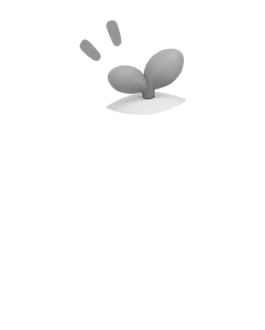
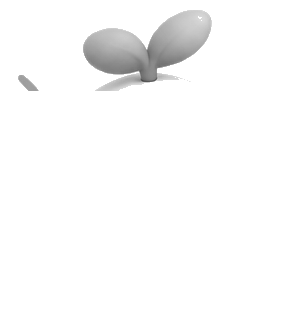
펫 커스텀을 새 참고 이미지(스테이지별 색상 항목 명시)로 전면 재구축
사용자가 알/유년기/청소년기/성년기 4장에 스테이지별 "변경 가능 색상" 라벨까지 직접
적어서 준 참고 이미지(design-assets/pet-mascot-reference-v2.png)로 마스코트를 전부
다시 뽑았다. 이전 이미지와 달리 청소년기는 가계부 대신 "가방"(들고 있는 나비 아이콘
책 + 옆구리 나비 파우치, 둘 다 가방색 하나로 묶임)을 갖고, 성년기에만 가계부(₩ 아이콘
책)와 가방이 둘 다 있다 — 사용자가 붙여준 상세 스펙 문서와 실제 그림을 대조해 확인.

핵심 변경:
- lib/pets.ts: colorPartsForStage() 추가 — 성장 단계별로 실제 존재하는 부위만
  반환(알=몸+잎, 유년기=+눈, 청소년기=+가방, 성년기=+가계부). PetCustomize가 이 값으로
  스와치를 필터링해서, 없는 부위의 커스텀 옵션은 화면에 안 보인다.
- components/screens/PetCustomize.tsx: 스와치 목록을 colorPartsForStage(previewStage)로
  필터링.
- components/PetMascot.tsx: STAGE_ASSET을 새 이미지 크기·부위 구성으로 교체
  (stage-3: bag만, stage-4: ledger+bag 둘 다). 시무룩(stage-3-sulking)은 새 참고
  이미지에 없어서 구버전 이미지에서 뽑은 걸 그대로 유지.
- design-assets/extract-pet-layers-v2.js(신규): 사각형 bbox 대신 실제 색 경계를 추적하고
  안의 흰 아이콘 구멍만 블러+재이진화로 메우는 방식(형태학적 closing 근사)으로 가계부·
  가방을 뽑는다 — 사각형을 쓰면 모서리가 실제 둥근 테두리 밖으로 튀어나와 몸통에 색
  잔상이 생기는 문제(사용자 신고: "규격이 안 맞음")가 있어 폐기.
- design-assets/extract-pet-layers.js: 이제 시무룩 추출에만 쓰는 용도로 주석 정리(나머지
  4단계는 v2로 완전히 대체됨).

Changed region(s): [[0.2717, 0.0308, 0.7245, 0.3692], [0.0604, 0.2154, 0.1208, 0.2769]]

diff --git a/design-assets/extract-pet-layers-v2.js b/design-assets/extract-pet-layers-v2.js
@@ -1,0 +1,235 @@
+// 2026-09-15 — 사용자가 새로 준, 스테이지별 커스텀 색상 항목까지 명시된 참고 이미지
+// (design-assets/pet-mascot-reference-v2.png)에서 부위별 레이어를 뽑는 스크립트.
+// v1(extract-pet-layers.js)과 달리 처음부터 "타원 눈대중" 대신 색 임계값(채도/밝기/색조)으로 각
+// 부위의 실제 픽셀 영역을 찾아 마스크를 만든다 — 이전에 에러가 반복된 이유(타원 좌표를 눈대중으로
+// 잡아서 몸통까지 침범하거나 잘려나감)를 원천적으로 피하려는 것.
+//
+// 이 참고 이미지는 4단계만 있고(알/유년기/청소년기/성년기) "시무룩" 그림은 없다 — 시무룩은 기존
+// public/pets/stage-3-sulking-*.png(구 참고 이미지에서 추출)를 그대로 계속 쓴다.
+//
+// 부위 구성(이미지 자체에 적힌 "변경 가능 색상" 라벨 기준, 사용자 확인):
+//   알: 몸, 잎사귀
+//   유년기: 몸, 눈, 잎사귀
+//   청소년기: 몸, 눈, 잎사귀, 가방(=들고 있는 나비 아이콘 책 + 옆구리 나비 아이콘 파우치, 둘 다 같은 색)
+//   성년기: 몸, 눈, 잎사귀, 가계부(=₩ 아이콘 책), 가방(=옆구리 나비 아이콘 파우치)
+const sharp = require("sharp");
+const path = require("path");
+
+const REF = path.join(__dirname, "pet-mascot-reference-v2.png");
+const DIR = path.join(__dirname, "..", "public", "pets");
+
+function rect(x, y, w, h, rx = 0) {
+  return `<rect x="${x}" y="${y}" width="${w}" height="${h}" rx="${rx}" fill="white"/>`;
+}
+function maskSvg(width, height, shapes) {
+  return Buffer.from(`<svg xmlns="http://www.w3.org/2000/svg" width="${width}" height="${height}">${shapes.join("")}</svg>`);
+}
+
+const CROPS = {
+  "stage-1-egg": { left: 40, top: 320, width: 300, height: 325 },
+  "stage-2": { left: 340, top: 258, width: 360, height: 387 },
+  "stage-3": { left: 700, top: 205, width: 344, height: 440 },
+  "stage-4": { left: 1044, top: 122, width: 456, height: 523 },
+};
+
+const STAGES = {
+  "stage-1-egg": {
+    leafSat: { y1: 90 }, // 줄기-몸통 경계 아래로(픽셀 스캔 확인) 안 넘어가게
+    eyeLumaBox: { boxes: [{ x0: 63, x1: 229, y0: 178, y1: 218 }], threshold: 175 }, // 감은 눈(얇은 곡선)
+    // 오른쪽 볼은 핑크 임계값으로 잡히지만 왼쪽은 채도가 낮아 안 잡혀서 대칭으로 보정.
+    pinkBoxes: [{ x0: 210, x1: 270, y0: 185, y1: 225 }],
+    fixedFallback: [rect(55, 190, 55, 30, 15)], // 왼쪽 볼 — 오른쪽과 대칭 위치, 색 임계값으로 못 찾아서 도형으로.
+  },
+  "stage-2": {
+    leafSat: { y1: 106 },
+    eyeBoxes: [{ x0: 120, x1: 182, y0: 175, y1: 246 }, { x0: 184, x1: 281, y0: 158, y1: 236 }],
+    pupilDark: true,
+    eyeWhite: true,
+    cheekMouthBox: [{ x0: 0, x1: 360, y0: 195, y1: 280 }],
+  },
+  "stage-3": {
+    leafSat: { y1: 101 },
+    eyeBoxes: [{ x0: 107, x1: 176, y0: 171, y1: 264 }, { x0: 167, x1: 267, y0: 151, y1: 264 }],
+    pupilDark: true,
+    eyeWhite: true,
+    cheekMouthBox: [{ x0: 0, x1: 344, y0: 190, y1: 280 }],
+    // 청소년기 = "가방" 하나로 통합(들고 있는 나비 책 + 옆구리 나비 파우치 둘 다).
+    heldRegions: { bag: { x0: 0, x1: 300, y0: 228, y1: 420 } },
+  },
+  "stage-4": {
+    leafSat: { y1: 121 },
+    eyeBoxes: [{ x0: 157, x1: 228, y0: 193, y1: 275 }, { x0: 232, x1: 344, y0: 178, y1: 294 }],
+    pupilDark: true,
+    eyeWhite: true,
+    cheekMouthBox: [{ x0: 0, x1: 456, y0: 220, y1: 315 }],
+    // 처음엔 사각형(rect)으로 bbox를 잡았는데, 사각형 모서리가 실제 책/파우치의 둥근 테두리
+    // 밖으로 튀어나와 몸통·팔에 색이 번진 사각형 잔상으로 보였다(사용자 신고: "규격이 안 맞음").
+    // 사각형 대신 실제 색 경계를 그대로 추적하고, 안의 흰 아이콘(₩·나비) 구멍만 블러+재이진화로
+    // 메우는 방식(형태학적 closing 근사)으로 바꿔 진짜 모양 그대로 잘라낸다.
+    heldRegions: {
+      ledger: { x0: 190, x1: 380, y0: 228, y1: 418 }, // 들고 있는 책(₩ 아이콘) = "가계부"
+      bag: { x0: 0, x1: 190, y0: 260, y1: 420 }, // 옆구리 파우치(나비 아이콘) = "가방"
+    },
+  },
+};
+
+// 가계부·가방처럼 색은 뚜렷하지만 안에 흰 아이콘(₩·나비) 구멍이 있는 부위용 — 지정한 범위 안에서
+// 채도(b-r) 임계값으로 실제 색 경계를 추적한 뒤, 블러+재이진화로 아이콘 크기의 구멍만 메운다
+// (사각형 bbox를 쓰면 모서리가 실제 둥근 테두리 밖으로 튀어나와 "규격이 안 맞는" 잔상이 생긴다).
+async function buildClosedRegionMask(srcBuf, box) {
+  const { data, info } = await sharp(srcBuf).raw().toBuffer({ resolveWithObject: true });
+  const { width, height, channels } = info;
+  const raw = Buffer.alloc(width * height * 4);
+  for (let y = box.y0; y < box.y1; y++) {
+    for (let x = box.x0; x < box.x1; x++) {
+      const i = (y * width + x) * channels;
+      const r = data[i], g = data[i + 1], b = data[i + 2], a = data[i + 3];
+      if (a > 100 && b - r > 65) {
+        const o = (y * width + x) * 4;
+        raw[o] = 255; raw[o + 1] = 255; raw[o + 2] = 255; raw[o + 3] = 255;
+      }
+    }
+  }
+  const blurred = await sharp(raw, { raw: { width, height, channels: 4 } }).blur(9).raw().toBuffer({ resolveWithObject: true });
+  const closed = Buffer.alloc(width * height * 4);
+  for (let i = 0; i < blurred.data.length; i += 4) {
+    if (blurred.data[i + 3] > 45) {
+      closed[i] = 255; closed[i + 1] = 255; closed[i + 2] = 255; closed[i + 3] = 255;
+    }
+  }
+  return sharp(closed, { raw: { width, height, channels: 4 } }).png().toBuffer();
+}
+
+const DARK_LUMA_THRESHOLD = 140;
+const WHITE_MIN_CHANNEL = 200;
+const WHITE_MAX_SPREAD = 22;
+// b-r > 이 값이면 잎사귀/줄기(채도 높은 진보라)로 인정. 처음엔 55였는데, 하이라이트가 강하게
+// 들어간 잎사귀 "끝부분"은 채도가 40 정도까지 떨어져서 55 기준으론 몸통으로 잘못 분류돼 색이 안
+// 바뀌는(파란 티) 문제가 있었다(실측: 끝부분 b-r≈40, 몸통 solid 픽셀은 b-r≤22) — 30으로 낮춤.
+const LEAF_SAT_THRESHOLD = 30;
+
+async function buildMaskFromPredicate(srcBuf, predicate) {
+  const { data, info } = await sharp(srcBuf).raw().toBuffer({ resolveWithObject: true });
+  const { width, height, channels } = info;
+  const out = Buffer.alloc(width * height * 4);
+  for (let y = 0; y < height; y++) {
+    for (let x = 0; x < width; x++) {
+      const i = (y * width + x) * channels;
+      const r = data[i], g = data[i + 1], b = data[i + 2], a = data[i + 3];
+      if (predicate(r, g, b, a, x, y)) {
+        const o = (y * width + x) * 4;
+        out[o] = 255; out[o + 1] = 255; out[o + 2] = 255; out[o + 3] = 255;
+      }
+    }
+  }
+  return sharp(out, { raw: { width, height, channels: 4 } }).png().toBuffer();
+}
+
+function inBoxes(boxes, x, y) {
+  return boxes.some((b) => x >= b.x0 && x <= b.x1 && y >= b.y0 && y <= b.y1);
+}
+
+async function unionAlpha(pngBuffers) {
+  const bufs = await Promise.all(pngBuffers.map((s) => sharp(s).ensureAlpha().raw().toBuffer({ resolveWithObject: true })));
+  const { width, height, channels } = bufs[0].info;
+  const out = Buffer.alloc(width * height * channels);
+  for (const { data } of bufs) {
+    for (let i = channels - 1; i < data.length; i += channels) {
+      if (data[i] > out[i]) out[i] = data[i];
+    }
+  }
+  return sharp(out, { raw: { width, height, channels } }).png().toBuffer();
+}
+
+async function run() {
+  for (const [stage, cfg] of Object.entries(STAGES)) {
+    const crop = CROPS[stage];
+    const srcBuf = await sharp(REF).extract(crop).png().toBuffer();
+    const w = crop.width, h = crop.height;
+    const grayBuf = await sharp(srcBuf).greyscale().png().toBuffer();
+    const holeBuffers = [];
+
+    // 잎사귀 — 채도(b-r) 임계값, y1 아래로는 절대 안 넘어가게(몸통 침범 버그 재발 방지)
+    if (cfg.leafSat) {
+      const leafMask = await buildMaskFromPredicate(srcBuf, (r, g, b, a, x, y) => {
+        if (y > cfg.leafSat.y1 || a <= 100) return false;
+        return b - r > LEAF_SAT_THRESHOLD;
+      });
+      holeBuffers.push(leafMask);
+      await sharp(grayBuf).composite([{ input: leafMask, blend: "dest-in" }]).png().toFile(path.join(DIR, `${stage}-leaf-gray.png`));
+    }
+
+    // 가계부/가방 — 실제 색 경계 추적 + 아이콘 구멍 closing(buildClosedRegionMask). 사각형 bbox를
+    // 쓰면 모서리가 실제 둥근 테두리 밖으로 튀어나와 몸통에 색 잔상이 생긴다(2026-09-15 사용자
+    // 신고로 rect 방식 폐기).
+    if (cfg.heldRegions) {
+      for (const [part, box] of Object.entries(cfg.heldRegions)) {
+        const mask = await buildClosedRegionMask(srcBuf, box);
+        holeBuffers.push(mask);
+        await sharp(grayBuf).composite([{ input: mask, blend: "dest-in" }]).png().toFile(path.join(DIR, `${stage}-${part}-gray.png`));
+      }
+    }
+
+    // 눈동자
+    if (cfg.pupilDark) {
+      const pupilMask = await buildMaskFromPredicate(srcBuf, (r, g, b, a, x, y) => {
+        if (!inBoxes(cfg.eyeBoxes, x, y) || a <= 40) return false;
+        return 0.3 * r + 0.59 * g + 0.11 * b < DARK_LUMA_THRESHOLD;
+      });
+      holeBuffers.push(pupilMask);
+      await sharp(grayBuf).composite([{ input: pupilMask, blend: "dest-in" }]).png().toFile(path.join(DIR, `${stage}-pupils-gray.png`));
+    }
+    if (cfg.eyeLumaBox) {
+      const { boxes, threshold } = cfg.eyeLumaBox;
+      const eyeMask = await buildMaskFromPredicate(srcBuf, (r, g, b, a, x, y) => {
+        if (!inBoxes(boxes, x, y) || a <= 40) return false;
+        return 0.3 * r + 0.59 * g + 0.11 * b < threshold;
+      });
+      holeBuffers.push(eyeMask);
+      await sharp(grayBuf).composite([{ input: eyeMask, blend: "dest-in" }]).png().toFile(path.join(DIR, `${stage}-pupils-gray.png`));
+    }
+
+    // 고정 요소(흰자·볼·입, 원색 그대로)
+    const fixedParts = [];
+    if (cfg.eyeWhite) {
+      const whiteMask = await buildMaskFromPredicate(srcBuf, (r, g, b, a, x, y) => {
+        if (!inBoxes(cfg.eyeBoxes, x, y) || a <= 40) return false;
+        const minC = Math.min(r, g, b), maxC = Math.max(r, g, b);
+        return minC > WHITE_MIN_CHANNEL && maxC - minC < WHITE_MAX_SPREAD;
+      });
+      fixedParts.push(whiteMask);
+    }
+    if (cfg.cheekMouthBox) {
+      const pinkMask = await buildMaskFromPredicate(srcBuf, (r, g, b, a, x, y) => {
+        if (!inBoxes(cfg.cheekMouthBox, x, y) || a <= 40) return false;
+        return (r + b) / 2 - g > 30 && Math.abs(r - b) < 15;
+      });
+      fixedParts.push(pinkMask);
+    }
+    if (cfg.pinkBoxes) {
+      const pinkMask = await buildMaskFromPredicate(srcBuf, (r, g, b, a, x, y) => {
+        if (!inBoxes(cfg.pinkBoxes, x, y) || a <= 40) return false;
+        return (r + b) / 2 - g > 15;
+      });
+      fixedParts.push(pinkMask);
+    }
+    if (cfg.fixedFallback) fixedParts.push(maskSvg(w, h, cfg.fixedFallback));
+    if (fixedParts.length > 0) {
+      const fixedMask = await unionAlpha(fixedParts);
+      holeBuffers.push(fixedMask);
+      await sharp(srcBuf).composite([{ input: fixedMask, blend: "dest-in" }]).png().toFile(path.join(DIR, `${stage}-fixed.png`));
+    }
+
+    await sharp(grayBuf)
+      .composite(holeBuffers.map((buf) => ({ input: buf, blend: "dest-out" })))
+      .png()
+      .toFile(path.join(DIR, `${stage}-body-gray.png`));
+
+    console.log("done", stage);
+  }
+}
+
+run().catch((e) => {
+  console.error(e);
+  process.exit(1);
+});

diff --git a/components/PetMascot.tsx b/components/PetMascot.tsx
@@ -1,28 +1,34 @@
 "use client";
-// components/PetMascot.tsx — 저금통 펫 마스코트. 2026-09-15 사용자가 실제로 준 참고 이미지
-// ("Stage 0-Egg/1/2/3/2-Sulking" 5장, design-assets/pet-mascot-reference.png)를 실제로 잘라서
-// 쓴다 — SVG로 다시 그리는 방식은 "이 캐릭터가 아니다"라며 거부당해 폐기했다(2026-09-15).
+// components/PetMascot.tsx — 저금통 펫 마스코트. 2026-09-15 사용자가 스테이지별 커스텀 색상
+// 항목까지 명시한 참고 이미지(알/유년기/청소년기/성년기 4장, design-assets/pet-mascot-reference-v2
+// .png)를 실제로 잘라서 쓴다 — SVG로 다시 그리는 방식은 "이 캐릭터가 아니다"라며 거부당해 폐기했다.
 //
-// 부위별 색상 커스텀(몸/가계부/가방/눈/잎사귀)은 그대로 유지해야 해서, 이미지를 통째로 쓰는 대신
-// design-assets/extract-pet-layers.js로 부위별 레이어(그레이스케일 + 실루엣 알파)를 미리 뽑아
-// public/pets/에 저장해뒀다. 화면에서는 각 레이어를:
+// 부위별 색상 커스텀은 그대로 유지해야 해서, 이미지를 통째로 쓰는 대신 design-assets/
+// extract-pet-layers-v2.js로 부위별 레이어(그레이스케일 + 실루엣 알파)를 미리 뽑아 public/pets/에
+// 저장해뒀다. 화면에서는 각 레이어를:
 //   1) 그레이스케일 이미지를 그대로 그리고
 //   2) 그 위에 같은 실루엣을 CSS mask-image로 쓰는 단색 오버레이를, mix-blend-mode:color로 얹는다
 // 이렇게 하면 원본의 음영·하이라이트(명도)는 유지한 채 색상(색조)만 사용자가 고른 색으로 바뀐다
-// ("듀오톤 컬러라이즈" 기법). 흰자·볼터치·입·코인처럼 색을 바꾸면 안 되는 요소는 "fixed" 레이어로
-// 따로 떼어 원색 그대로 그 위에 얹는다.
+// ("듀오톤 컬러라이즈" 기법). 흰자·볼터치·입처럼 색을 바꾸면 안 되는 요소는 "fixed" 레이어로 따로
+// 떼어 원색 그대로 그 위에 얹는다.
 //
-// [주의] 마스크 좌표는 참고 이미지를 육안으로 보고 잡은 근사치라(design-assets/extract-pet-layers.js
-// 참고) 부위 경계에 약간의 오차가 있을 수 있다 — 완벽한 픽셀 단위 분리보다 "실제로 색이 바뀌는 것"을
-// 우선한 실용적 타협.
+// 부위 구성(참고 이미지 자체에 적힌 "변경 가능 색상" 라벨 기준, 2026-09-15 사용자 확인) — 성장
+// 단계마다 존재하는 부위가 다르다:
+//   1=알: 몸+잎사귀만(눈·가계부·가방 없음)
+//   2=유년기: 몸+눈+잎사귀(가계부·가방 없음)
+//   3=청소년기: 몸+눈+잎사귀+가방(들고 있는 나비 책 + 옆구리 나비 파우치, 둘 다 가방 색 하나로 묶임 — 가계부 없음)
+//   4=성년기: 몸+눈+잎사귀+가계부(₩ 책)+가방(옆구리 파우치) 전부
+// lib/pets.ts의 colorPartsForStage()가 이 표를 그대로 코드로 옮긴 것 — 화면(PetCustomize)에서
+// 스와치를 보여줄지 말지 그 함수로 판단한다. 시무룩(stage-3-sulking)은 구버전 참고 이미지(5스테이지,
+// design-assets/pet-mascot-reference.png)에서 뽑은 걸 그대로 쓴다 — 새 참고 이미지엔 시무룩이 없다.
 import type { CSSProperties } from "react";
 import type { Pet } from "@/lib/mock";
 import { MAX_STAGE_INDEX } from "@/lib/pets";
 
 const STAGE_SIZE = [56, 70, 84, 98]; // stage_index 1~4(1=알)에 대응, 참고 이미지의 "성장 미리보기"처럼 커짐
 
-// 레이어 원본 픽셀 크기(design-assets/extract-pet-layers.js의 크롭 크기와 동일해야 함) — 스테이지마다
-// 이미지 비율이 달라서, 컨테이너 안에서 object-fit: contain으로 비율을 유지한 채 바닥에 맞춰 앉힌다.
+// 레이어 원본 픽셀 크기(design-assets/extract-pet-layers-v2.js의 크롭 크기와 동일해야 함) — 스테이지
+// 마다 이미지 비율이 달라서, 컨테이너 안에서 비율을 유지한 채 바닥에 맞춰 앉힌다.
 type PetAssetPart = "leaf" | "ledger" | "bag";
 interface PetAsset {
   key: string;
@@ -31,10 +37,10 @@ interface PetAsset {
   parts: readonly PetAssetPart[];
 }
 const STAGE_ASSET: Record<1 | 2 | 3 | 4, PetAsset> = {
-  1: { key: "stage-1-egg", w: 265, h: 330, parts: ["leaf"] },
-  2: { key: "stage-2", w: 278, h: 345, parts: ["leaf"] },
-  3: { key: "stage-3", w: 286, h: 425, parts: ["leaf", "ledger"] },
-  4: { key: "stage-4", w: 361, h: 515, parts: ["leaf", "bag"] },
+  1: { key: "stage-1-egg", w: 300, h: 325, parts: ["leaf"] },
+  2: { key: "stage-2", w: 360, h: 387, parts: ["leaf"] },
+  3: { key: "stage-3", w: 344, h: 440, parts: ["leaf", "bag"] },
+  4: { key: "stage-4", w: 456, h: 523, parts: ["leaf", "ledger", "bag"] },
 };
 const SULKING_ASSET: PetAsset = { key: "stage-3-sulking", w: 346, h: 430, parts: ["leaf"] };
 

diff --git a/design-assets/extract-pet-layers.js b/design-assets/extract-pet-layers.js
@@ -1,17 +1,17 @@
-// 참고 이미지(사용자 제공, design-assets/pet-mascot-reference.png)를 부위별 레이어로 분리하는
-// 스크립트(2026-09-15, 6차 수정) — public/pets/*-gray.png·*-fixed.png가 이 스크립트의 결과물이다.
-// 재실행: `node design-assets/extract-pet-layers.js` (프로젝트 루트에서, sharp가 있어야 함).
+// 참고 이미지(사용자 제공, design-assets/pet-mascot-reference.png — 5스테이지 구버전)를 부위별
+// 레이어로 분리하는 스크립트. 2026-09-15에 사용자가 스테이지별 커스텀 항목까지 명시된 더 정확한
+// 참고 이미지(design-assets/pet-mascot-reference-v2.png)를 새로 줘서, 알/유년기/청소년기/성년기
+// 4단계는 extract-pet-layers-v2.js로 완전히 대체됐다(public/pets/v2-*.png).
 //
-// 이력(요약): 1차 도형 마스크 → 2차 알 단계 눈·잎사귀 보정 → 3차 dest-in/out이 알파 채널로만
-// 동작한다는 걸 몰라서 1채널 마스크가 무시되던 버그 수정 + 흰자 타원이 커서 몸 색 바꿔도 눈 주위에
-// 고리가 남던 문제 수정 → 4차 "눈동자(pupils)" 타원도 흰자와 똑같은 문제(실제보다 큰 타원 → 기본
-// 눈 색이 큰 범위에 칠해져 회색 동그라미로 튐)를 색 임계값(eyeBoxes) 방식으로 수정 → 5차(이번):
-// stage-2(유년기)에서 왼쪽 눈 "아래쪽"이 안 바뀌는 문제·새싹 색이 잘 안 바뀌는 문제가 남아있었다
-// (사용자 신고, 2026-09-15) — eyeBoxes가 실제 눈동자 하단을 살짝 잘라내고 있었고(픽셀 스캔으로
-// 확인: 실제 눈동자가 상자 경계 y1 바로 너머까지 이어짐), leaf 타원도 여전히 작았다. 전 스테이지의
-// eyeBoxes·leaf 타원을 픽셀 단위 다크/알파 스캔으로 다시 재서 넉넉하게 키웠다(스캔할 때 입·가계부·
-// 가방·코인처럼 눈동자와 무관한 어두운 요소가 섞여 들어오지 않도록 탐색 범위를 얼굴 부분으로 좁혀서
-// 오염을 피했다 — 자세한 좌표 근거는 git 히스토리의 스캔 로그 참고).
+// 이 스크립트는 이제 "시무룩(stage-3-sulking)" 하나만 계속 쓴다 — v2 참고 이미지에는 시무룩 그림이
+// 없어서(성장 단계 4개만 있음), 구버전 이미지에서 추출한 걸 그대로 유지한다. 재실행해도 결과 파일 중
+// stage-3-sulking-*.png만 실제로 쓰이고, 나머지(stage-1-egg-*·stage-2-*·stage-3-*·stage-4-*)는
+// v2로 대체되어 코드에서 더 이상 참조하지 않는다 — 재실행 후 그 파일들은 지워도 된다.
+//
+// 이력(요약, 구버전 4단계까지 겪은 버그들 — 지금은 v2로 넘어갔지만 시무룩에도 같은 기법을 쓰므로
+// 남겨둠): 1차 도형 마스크 → 2차 알 단계 눈·잎사귀 보정 → 3차 dest-in/out이 알파 채널로만 동작한다는
+// 걸 몰라서 1채널 마스크가 무시되던 버그 수정 → 4차 눈동자도 색 임계값 방식으로 수정 → 5차 eyeBoxes·
+// leaf 범위를 픽셀 스캔으로 재조정 → 6차 볼·입 위치도 색 임계값으로 교체.
 const sharp = require("sharp");
 const path = require("path");
 

diff --git a/components/screens/PetCustomize.tsx b/components/screens/PetCustomize.tsx
@@ -5,7 +5,7 @@ import { useState } from "react";
 import { useNav } from "../NavContext";
 import { useStore } from "@/lib/store";
 import { getPersonalPet } from "@/lib/selectors";
-import { PET_COLOR_PALETTE, PET_COLOR_PARTS, PET_STAGE_LABELS, type PetColorPart } from "@/lib/pets";
+import { PET_COLOR_PALETTE, PET_COLOR_PARTS, PET_STAGE_LABELS, colorPartsForStage, type PetColorPart } from "@/lib/pets";
 import PetMascot from "../PetMascot";
 import { ChevronLeftIcon } from "../icons";
 
@@ -91,8 +91,10 @@ export default function PetCustomize() {
           })}
         </div>
 
+        {/* 성장 단계마다 실제로 존재하는 부위만 보여준다(사용자 확인 — 참고 이미지 자체에 스테이지별
+            "변경 가능 색상" 라벨이 적혀 있음). 예: 알엔 눈·가계부·가방이 없어서 그 스와치를 숨긴다. */}
         <div style={{ display: "flex", flexDirection: "column", gap: 12 }}>
-          {PET_COLOR_PARTS.map(({ key, label }) => (
+          {PET_COLOR_PARTS.filter(({ key }) => colorPartsForStage(previewStage).includes(key)).map(({ key, label }) => (
             <div key={key} style={{ background: "var(--shoot-surface)", border: "1px solid var(--shoot-border)", borderRadius: 16, padding: 14 }}>
               <div style={{ fontSize: 13, fontWeight: 800, color: "var(--shoot-text)", marginBottom: 10 }}>{label}</div>
               <div style={{ display: "flex", gap: 8, flexWrap: "wrap" }}>

diff --git a/lib/pets.ts b/lib/pets.ts
@@ -44,6 +44,16 @@ export const PET_COLOR_PARTS: { key: PetColorPart; label: string }[] = [
   { key: "leaf", label: "잎사귀 색상" },
 ];
 
+// 성장 단계마다 실제로 존재하는 부위만 커스텀 화면에 보여준다(2026-09-15 사용자 확인 — 참고 이미지
+// 자체에 스테이지별 "변경 가능 색상" 라벨이 적혀 있다). 없는 부위의 색은 DB엔 계속 저장돼 있지만
+// (다음 단계로 자라면 그대로 살아남게) 그 단계에서는 편집 UI를 숨긴다.
+export function colorPartsForStage(stageIndex: number): PetColorPart[] {
+  if (stageIndex <= 1) return ["body", "leaf"]; // 알 — 눈·가계부·가방 없음
+  if (stageIndex === 2) return ["body", "eyes", "leaf"]; // 유년기 — 가계부·가방 없음
+  if (stageIndex === 3) return ["body", "eyes", "leaf", "bag"]; // 청소년기 — 가계부 없음
+  return ["body", "eyes", "leaf", "ledger", "bag"]; // 성년기 — 전부
+}
+
 // 이미지의 부위별 스와치를 그대로 다 옮기진 않고, 팔레트 하나를 5개 부위에 공통으로 쓴다(단순화 —
 // 부위마다 다른 팔레트를 원하면 팀 확인 후 나눌 것).
 export const PET_COLOR_PALETTE = ["#8C81E0", "#5FA8E0", "#E07AAE", "#5FBF9E", "#E0C25F", "#E08A5F", "#8A8FA3"];
